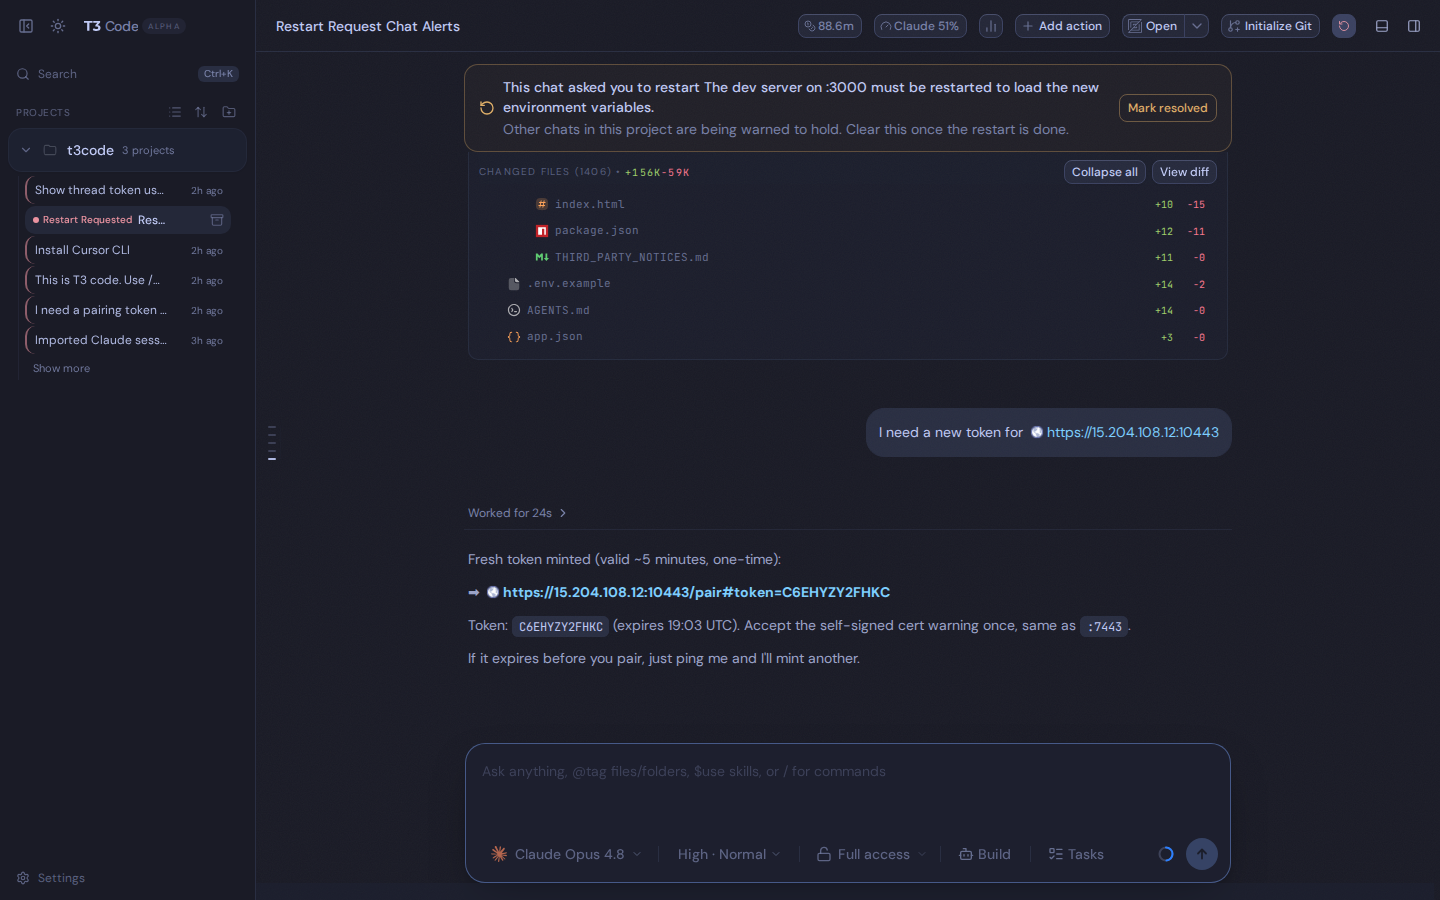
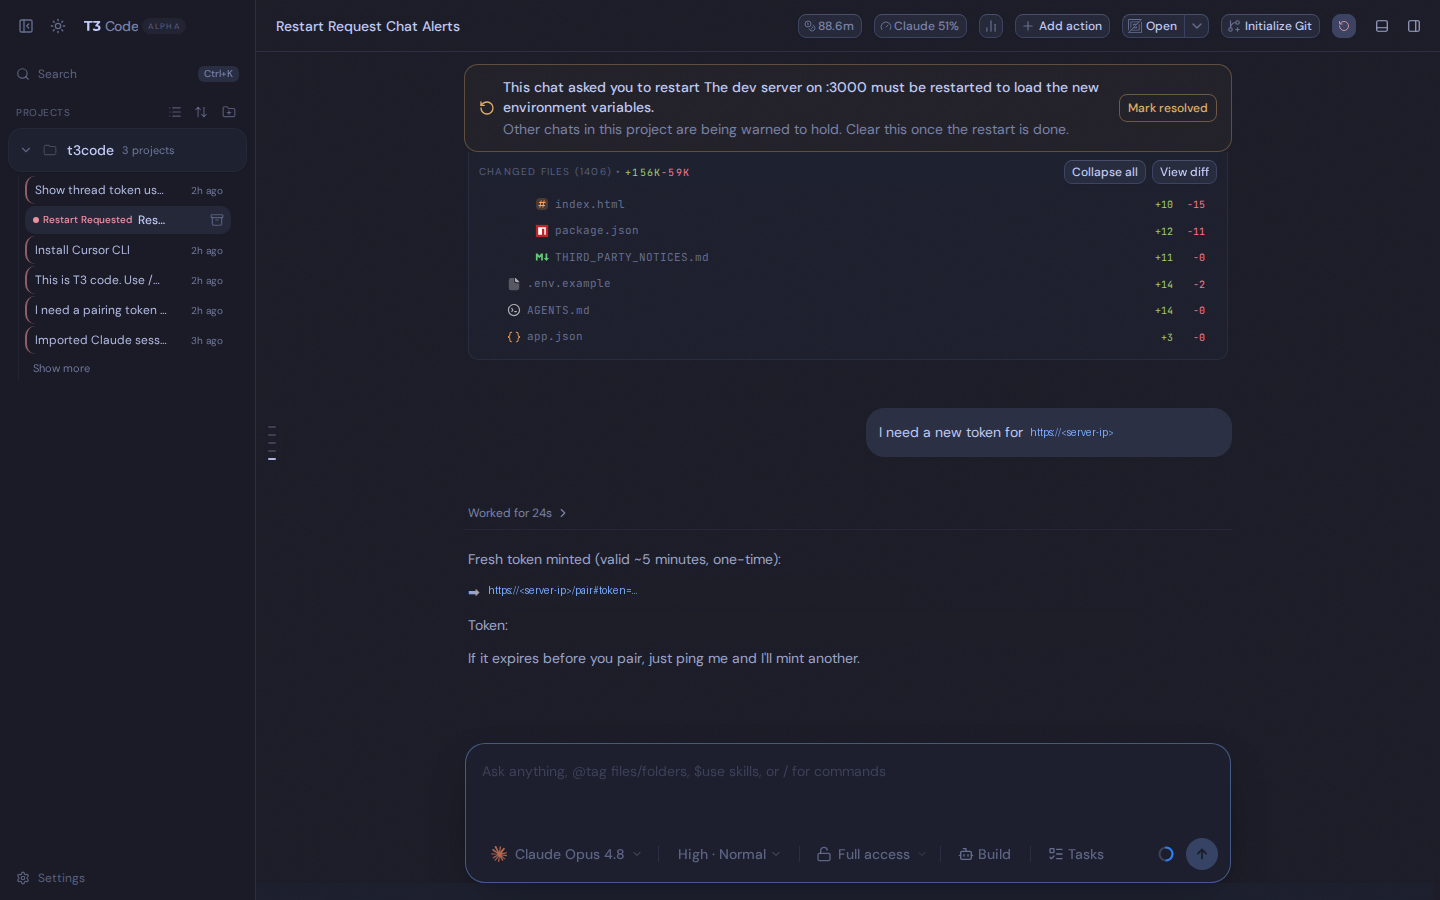
chore: scrub the prod server IP from the repo
Replace the box's public IP with a <server-ip> placeholder in docs and
comments, use a TEST-NET address in the voice transcription test, and
redact the IP and pairing link from the README screenshot.

Changed region(s): [[0.3438, 0.6533, 0.7812, 0.7156], [0.7188, 0.4667, 0.8438, 0.4978]]

diff --git a/apps/mobile/app.config.ts b/apps/mobile/app.config.ts
@@ -115,7 +115,7 @@ const variant = VARIANT_CONFIG[APP_VARIANT];
 // variant (com.t3tools.t3code.preview) ships this way, so only it gets the in-app updater.
 // The manifest URL can be overridden at build time for testing (T3CODE_SIDELOAD_MANIFEST_URL).
 // Since versionCode 4 it is the gordonlabs.dev hostname (Let's Encrypt, so system CAs).
-// Builds up to 3 poll https://15.204.108.12:7443/sideload/t3code/latest.json, which keeps
+// Builds up to 3 poll https://<server-ip>:7443/sideload/t3code/latest.json, which keeps
 // serving the same file until every installed phone has updated past 3.
 const SIDELOAD_MANIFEST_URL =
   repoEnv.T3CODE_SIDELOAD_MANIFEST_URL?.trim() || "https://apps.gordonlabs.dev/t3code/latest.json";

diff --git a/apps/web/src/voice/transcriptionClient.test.ts b/apps/web/src/voice/transcriptionClient.test.ts
@@ -12,8 +12,8 @@ function stubBrowserPrimary() {
     configurable: true,
     value: {
       location: {
-        href: "https://15.204.108.12/chat",
-        origin: "https://15.204.108.12",
+        href: "https://203.0.113.10/chat",
+        origin: "https://203.0.113.10",
       },
     },
   });

diff --git a/apps/mobile/README.md b/apps/mobile/README.md
@@ -163,7 +163,7 @@ The `preview` variant (`com.t3tools.t3code.preview`) is distributed through
 - **First install:** open `https://apps.gordonlabs.dev/` on the phone and tap *T3 Code*.
 - **Updates:** Settings > About > **Check for updates** (also a quiet check on launch and each
   foreground, at most every 6 hours) against `https://apps.gordonlabs.dev/t3code/latest.json`
-  (versionCode 4 on; older builds poll `https://15.204.108.12:7443/sideload/t3code/latest.json`,
+  (versionCode 4 on; older builds poll `https://<server-ip>:7443/sideload/t3code/latest.json`,
   the same file, which stays served for them). It downloads the APK, verifies its SHA-256 and opens the
   system installer. Implemented by `modules/t3-sideload-updater` (a vendored copy of the
   android-sideload updater, see its `VENDORED.md`) and `src/features/updates/sideload-updates.ts`;

diff --git a/.agents/skills/token/SKILL.md b/.agents/skills/token/SKILL.md
@@ -18,7 +18,7 @@ is to run it and hand back the printed URL.
    directory `t3code.service` is already serving from) with `T3CODE_PORT=3773`, so the
    token lands in the running server's live database — no restart needed.
 3. Prints a ready-to-use `https://t3.gordonlabs.dev/pair#token=...` link (sessions are per
-   origin; the old `https://15.204.108.12:7443` and IP `:443` roots are being retired to a
+   origin; the old `https://<server-ip>:7443` and IP `:443` roots are being retired to a
    308 redirect, so pair on the hostname. `T3_PUBLIC_URL` overrides it).
 
 Unlike `/redeploy`, this never touches the running service — no session drop.
